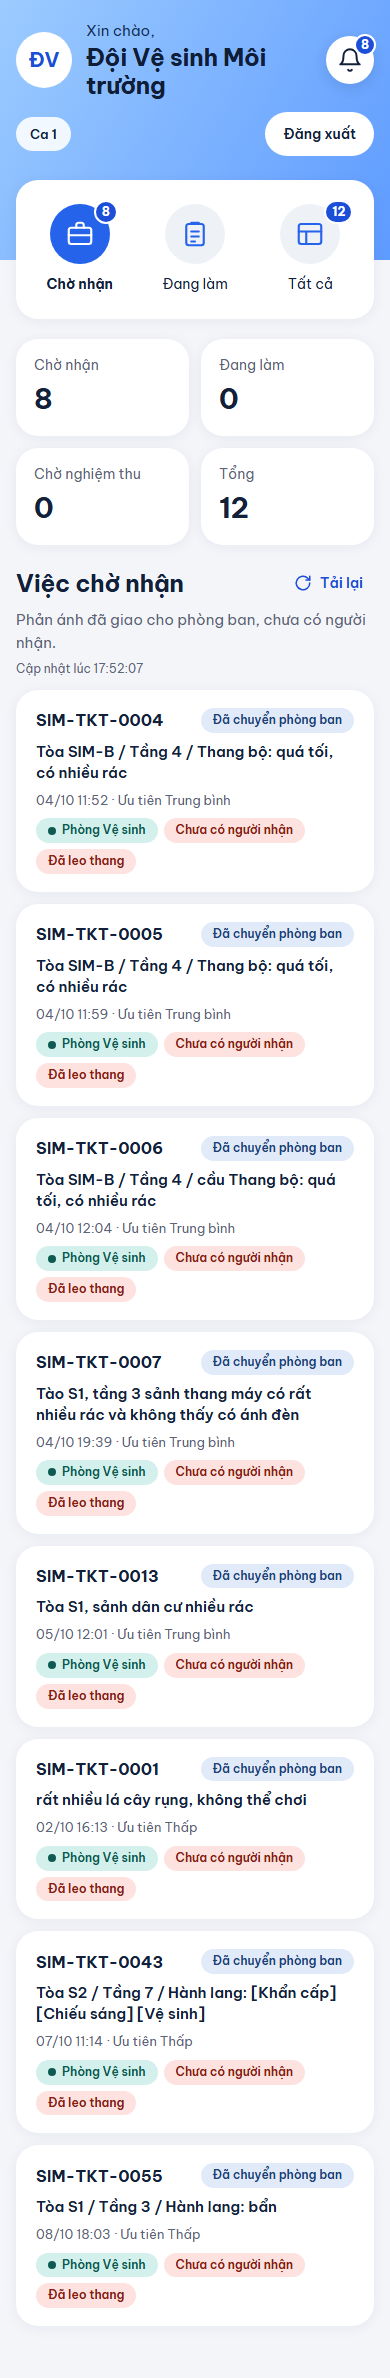
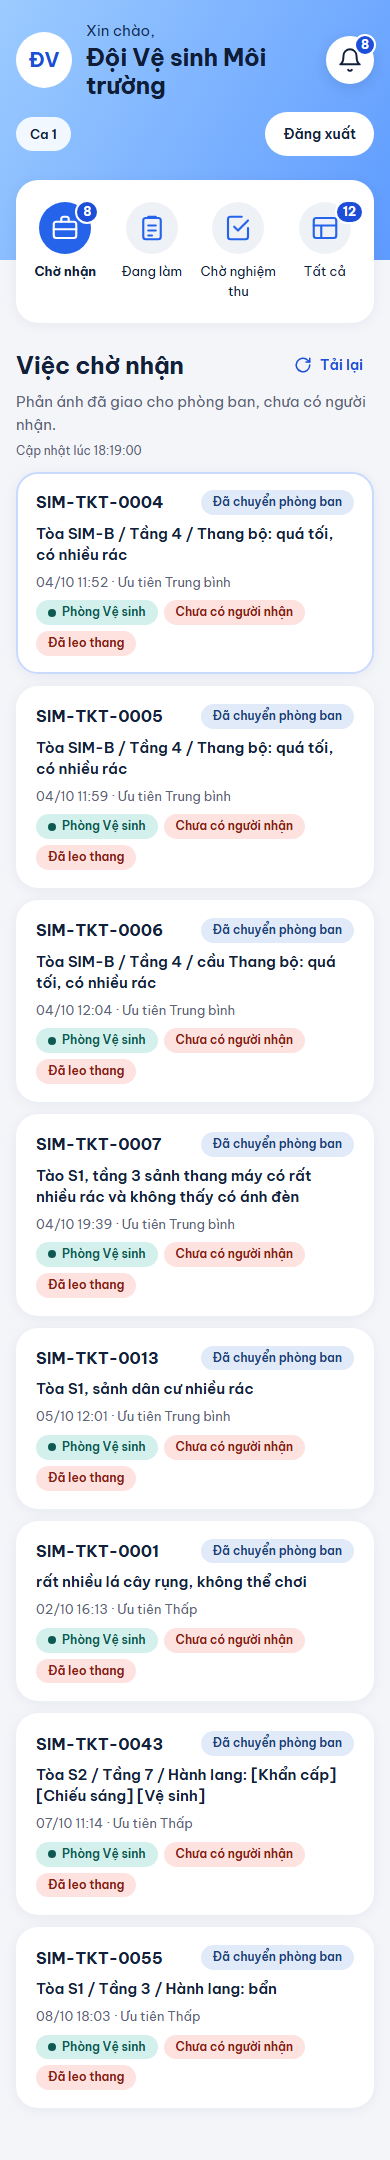
feat(mobile): department tiles add "Chờ nghiệm thu" and drop the stat cards
- Department list: four tiles (Chờ nhận, Đang làm, Chờ nghiệm thu, Tất cả), no stat cards (plan 11 Q32)
- queueScreen takes optional stats; check-square icon from portal; shell version v4

diff --git a/src/mobile/js/dept.js b/src/mobile/js/dept.js
@@ -1,22 +1,24 @@
 // Department screens (Phòng ban Vệ sinh / Kỹ thuật) — plan 11 SPEC-P05 §2. Same endpoints and rules as
 // renderDepartment / workSections in src/web/app.js; photos first because the field team works from the phone (Q28).
-import { api, apiForm } from './api.js?v=3';
-import { MAX_PHOTOS, photoFormData, photoPicker } from './photo.js?v=3';
-import { confirmSheet, el, field, fill, icon, notice, pill, writeButton } from './ui.js?v=3';
+import { api, apiForm } from './api.js?v=4';
+import { MAX_PHOTOS, photoFormData, photoPicker } from './photo.js?v=4';
+import { confirmSheet, el, field, fill, icon, notice, pill, writeButton } from './ui.js?v=4';
 import {
   REASON_LABEL, caseHead, caseScreen, checklistLabel, codeOf, eventsHistory, executionPhotoIds, imagesOf, materialName,
   materialUnit, photoBox, photoStrip, queueScreen, reportBox, select, webButton, writer,
-} from './staff.js?v=3';
+} from './staff.js?v=4';
 
 const MAX_EXECUTION_PHOTOS = 10; // src/maintenance/engine.py
 const TILES = [
   ['todo', 'Chờ nhận', 'briefcase', (t) => t.status === 'ROUTED'],
   ['doing', 'Đang làm', 'clipboard', (t) => t.status === 'IN_PROGRESS' || t.status === 'ON_HOLD'],
+  ['review', 'Chờ nghiệm thu', 'checkSquare', (t) => t.status === 'READY_FOR_REVIEW'],
   ['all', 'Tất cả', 'table', () => true],
 ];
 const HEADS = {
   todo: ['Việc chờ nhận', 'Phản ánh đã giao cho phòng ban, chưa có người nhận.'],
   doing: ['Việc đang làm', 'Chụp ảnh sau xử lý, tick checklist, ghi vật tư rồi báo hoàn thành.'],
+  review: ['Chờ nghiệm thu', 'Đã báo hoàn thành, đang chờ Ban quản lý nghiệm thu.'],
   all: ['Tất cả việc của phòng ban', 'Mọi phản ánh đã giao cho phòng ban của bạn.'],
 };
 let tab = 'todo';
@@ -26,8 +28,6 @@ const tabState = { get: () => tab, set: (key) => { tab = key; } };
 
 export const list = (ctx) => queueScreen(ctx, {
   tiles: TILES, tab: tabState, heads: HEADS, base: '#/d', empty: 'Không có việc nào ở mục này.',
-  stats: (rows) => [['Chờ nhận', rows.filter(TILES[0][3]).length], ['Đang làm', rows.filter(TILES[1][3]).length],
-    ['Chờ nghiệm thu', rows.filter((t) => t.status === 'READY_FOR_REVIEW').length], ['Tổng', rows.length]],
 });
 
 // ---------------------------------------------------------------- readiness (src/web/app.js failingLabel / computeReadinessPrecheck)

diff --git a/src/mobile/js/staff.js b/src/mobile/js/staff.js
@@ -1,7 +1,7 @@
 // Shared pieces of the staff screens (BQL, Phòng ban, BPTN, Kho) — plan 11 SPEC-P05 Q31.
 // Labels copied from src/web/app.js so web and app name things the same way.
-import { api, apiImage } from './api.js?v=3';
-import { el, emptyState, fill, formatTime, history, notice, pageHead, pagedList, pill, refreshButton, toast } from './ui.js?v=3';
+import { api, apiImage } from './api.js?v=4';
+import { el, emptyState, fill, formatTime, history, notice, pageHead, pagedList, pill, refreshButton, toast } from './ui.js?v=4';
 
 export const REASON_LABEL = {
   MISSING_INFO: 'Thiếu thông tin', DUPLICATE: 'Nghi trùng', CATEGORY_UNCLEAR: 'Loại việc chưa rõ', OUT_OF_SCOPE: 'Ngoài phạm vi',
@@ -163,7 +163,8 @@ export function summaryCard(cat, base) {
 
 /**
  * List screen shared by Phòng ban / BPTN / Kho: stat cards, filter tiles (#staff-tabs), page head, paged cards (#staff-list).
- * opts: { tiles: [[key, label, icon, test]], tab: { get, set }, heads: { key: [title, sub] }, base, stats(rows) → [[label, n]], empty }
+ * opts: { tiles: [[key, label, icon, test]], tab: { get, set }, heads: { key: [title, sub] }, base, stats?(rows) → [[label, n]], empty }
+ * Without `stats` no stat cards are drawn (Phòng ban, Q32).
  */
 export async function queueScreen(ctx, opts) {
   const statsBox = el('div', { class: 'stats' });
@@ -179,7 +180,8 @@ export async function queueScreen(ctx, opts) {
   const draw = (keep) => {
     chrome();
     ctx.counts(Object.fromEntries([...opts.tiles.map(([key, , , t]) => [key, rows.filter(t).length]), ['bell', rows.filter(opts.tiles[0][3]).length]]));
-    fill(statsBox, opts.stats(rows).map(([label, value]) => el('div', { class: 'card stat' }, el('span', {}, label), el('b', {}, String(value)))));
+    statsBox.hidden = !opts.stats;
+    fill(statsBox, (opts.stats ? opts.stats(rows) : []).map(([label, value]) => el('div', { class: 'card stat' }, el('span', {}, label), el('b', {}, String(value)))));
     const [title, sub] = opts.heads[opts.tab.get()] || opts.heads[opts.tiles[0][0]];
     fill(head, pageHead(title, sub, { right: refreshButton(load, ctx) }));
     const previous = keep ? body.firstElementChild : null;

diff --git a/src/mobile/js/main.js b/src/mobile/js/main.js
@@ -1,12 +1,12 @@
 // Phone app boot: hash router, sign-in, periodic refresh, offline banner, service worker (plan 11, SPEC-P01).
 // Chrome = portal Header + NavTiles (portal/src/components/shell.tsx, SPEC-P04 §3).
-import { api, clearToken, getToken, onUnauthorized, setToken } from './api.js?v=3';
-import { clock, el, fill, icon, person, toast } from './ui.js?v=3';
-import * as resident from './resident.js?v=3';
-import * as bql from './bql.js?v=3';
-import * as dept from './dept.js?v=3';
-import * as bptn from './bptn.js?v=3';
-import * as kho from './kho.js?v=3';
+import { api, clearToken, getToken, onUnauthorized, setToken } from './api.js?v=4';
+import { clock, el, fill, icon, person, toast } from './ui.js?v=4';
+import * as resident from './resident.js?v=4';
+import * as bql from './bql.js?v=4';
+import * as dept from './dept.js?v=4';
+import * as bptn from './bptn.js?v=4';
+import * as kho from './kho.js?v=4';
 
 export const REFRESH_MS = 30000;
 const ME_KEY = 'mo-app-me';

diff --git a/src/mobile/sw.js b/src/mobile/sw.js
@@ -1,21 +1,21 @@
 // Service worker of the phone app (plan 11, SPEC-P01 §3): caches the app shell only.
 // API responses are NEVER cached (00-ARCHITECTURE I-3): data on the phone must always come from the shared DB.
-const SHELL_CACHE = 'mo-app-shell-v3';
+const SHELL_CACHE = 'mo-app-shell-v4';
 const SHELL = [
   './',
   'index.html',
-  'app.css?v=3',
+  'app.css?v=4',
   'manifest.json',
-  'js/main.js?v=3',
-  'js/api.js?v=3',
-  'js/ui.js?v=3',
-  'js/photo.js?v=3',
-  'js/resident.js?v=3',
-  'js/bql.js?v=3',
-  'js/staff.js?v=3',
-  'js/dept.js?v=3',
-  'js/bptn.js?v=3',
-  'js/kho.js?v=3',
+  'js/main.js?v=4',
+  'js/api.js?v=4',
+  'js/ui.js?v=4',
+  'js/photo.js?v=4',
+  'js/resident.js?v=4',
+  'js/bql.js?v=4',
+  'js/staff.js?v=4',
+  'js/dept.js?v=4',
+  'js/bptn.js?v=4',
+  'js/kho.js?v=4',
   'icons/icon-192.png',
   'icons/icon-512.png',
   'icons/icon-maskable-512.png',

diff --git a/src/mobile/index.html b/src/mobile/index.html
@@ -15,7 +15,7 @@
   <link rel="preconnect" href="https://fonts.googleapis.com">
   <link rel="preconnect" href="https://fonts.gstatic.com" crossorigin>
   <link href="https://fonts.googleapis.com/css2?family=Be+Vietnam+Pro:wght@400;500;600;700&display=swap" rel="stylesheet">
-  <link rel="stylesheet" href="app.css?v=3">
+  <link rel="stylesheet" href="app.css?v=4">
 </head>
 <body>
   <div id="offline" class="offline" role="status" hidden>Mất kết nối — dữ liệu có thể chưa mới, chưa gửi được thao tác</div>
@@ -24,6 +24,6 @@
   <main id="screen" class="screen" aria-live="polite"></main>
   <div id="toast" class="toast" role="alert" hidden></div>
   <div id="sheet" class="sheet-backdrop" hidden></div>
-  <script type="module" src="js/main.js?v=3"></script>
+  <script type="module" src="js/main.js?v=4"></script>
 </body>
 </html>

diff --git a/src/mobile/js/bql.js b/src/mobile/js/bql.js
@@ -1,13 +1,13 @@
 // BQL screens on the phone (plan 11, SPEC-P03 rules, SPEC-P04 §5 layout from portal/src/app/management/management-app.tsx).
 // Buttons follow the BqlTicketRow; the server stays the referee (403/409 go through the error table).
-import { api, apiImage } from './api.js?v=3';
+import { api, apiImage } from './api.js?v=4';
 import {
   TERMINAL, confirmSheet, el, emptyState, field, fill, formatTime, history, icon, infoGrid, notice, pageHead, pagedList,
   refreshButton, toast, writeButton,
-} from './ui.js?v=3';
+} from './ui.js?v=4';
 import {
   PRIORITY_LABEL, REASON_LABEL, deptName, deptPill as deptPillOf, flags, imagesOf, isEmergency, isSeedTicket, loadCatalog, statusPill,
-} from './staff.js?v=3';
+} from './staff.js?v=4';
 
 export { isEmergency, isSeedTicket };
 const deptPill = (cat, r) => deptPillOf(cat, r.department_id);

diff --git a/src/mobile/js/bptn.js b/src/mobile/js/bptn.js
@@ -1,10 +1,10 @@
 // BPTN screens (Bộ phận tiếp nhận) — plan 11 SPEC-P05 §3. Same queue filter and bodies as renderBptn / bptnForm in src/web/app.js.
-import { api } from './api.js?v=3';
-import { confirmSheet, el, field, fill, notice, writeButton } from './ui.js?v=3';
+import { api } from './api.js?v=4';
+import { confirmSheet, el, field, fill, notice, writeButton } from './ui.js?v=4';
 import {
   CATEGORY_LABEL, caseHead, caseScreen, codeOf, compact, eventsHistory, imagesOf, photoBox, queueScreen, reportBox, select,
   webButton, writer,
-} from './staff.js?v=3';
+} from './staff.js?v=4';
 
 const QUEUE = new Set(['SAFETY_REVIEW_REQUIRED', 'MISSING_INFO', 'DUPLICATE', 'CATEGORY_UNCLEAR', 'OUT_OF_SCOPE', 'PENDING_REVIEW', 'ASSET_UNCLEAR', 'WRONG_DEPT']);
 const needsBptn = (t) => t.status === 'NEED_INFO' || QUEUE.has(codeOf(t));

diff --git a/src/mobile/js/ui.js b/src/mobile/js/ui.js
@@ -42,6 +42,7 @@ const ICONS = {
   table: ['<rect x="3" y="4" width="18" height="16" rx="2"/><path d="M3 10h18M9 10v10"/>', 30, 1.7],
   briefcase: ['<rect x="3" y="7" width="18" height="13" rx="2"/><path d="M9 7V5a2 2 0 0 1 2-2h2a2 2 0 0 1 2 2v2M3 13h18"/>', 30, 1.7],
   shield: ['<path d="M12 3 4 6v6c0 5 3.5 8 8 9 4.5-1 8-4 8-9V6Z"/><path d="m9 12 2 2 4-4"/>', 30, 1.7],
+  checkSquare: ['<path d="m9 11 3 3 8-8"/><path d="M20 12v7a2 2 0 0 1-2 2H6a2 2 0 0 1-2-2V5a2 2 0 0 1 2-2h9"/>', 30, 1.7],
   layers: ['<path d="m12 3 9 5-9 5-9-5Z"/><path d="m3 13 9 5 9-5"/>', 22, 1.8],
   building: ['<path d="M4 21V5a2 2 0 0 1 2-2h12a2 2 0 0 1 2 2v16"/><path d="M2 21h20M10 21v-5h4v5M9 8h1M14 8h1M9 12h1M14 12h1"/>', 22, 1.8],
   lift: ['<rect x="5" y="3" width="14" height="18" rx="2"/><path d="m9 9 3-3 3 3M9 15l3 3 3-3"/>', 22, 1.8],

diff --git a/src/mobile/js/kho.js b/src/mobile/js/kho.js
@@ -1,10 +1,10 @@
 // Warehouse screens (Kho vật tư) — plan 11 SPEC-P05 §4. Same endpoints as renderWarehouse in src/web/app.js.
-import { api } from './api.js?v=3';
-import { el, emptyState, field, fill, pageHead, pagedList, pill, refreshButton, toast, writeButton } from './ui.js?v=3';
+import { api } from './api.js?v=4';
+import { el, emptyState, field, fill, pageHead, pagedList, pill, refreshButton, toast, writeButton } from './ui.js?v=4';
 import {
   caseHead, caseScreen, codeOf, eventsHistory, isSeedTicket, loadCatalog, materialName, materialUnit, reportBox, select,
   summaryCard, webButton,
-} from './staff.js?v=3';
+} from './staff.js?v=4';
 
 const TILES = [['wait', 'Chờ vật tư', 'box'], ['stock', 'Tồn kho', 'grid']];
 let tab = 'wait';

diff --git a/src/mobile/js/resident.js b/src/mobile/js/resident.js
@@ -1,11 +1,11 @@
 // Resident screens (plan 11, SPEC-P02 rules, SPEC-P04 §4 layout from portal/src/app/resident/resident-app.tsx).
 // Only /resident/* endpoints; data = ResidentTicketView.
-import { api, apiForm, apiImage } from './api.js?v=3';
+import { api, apiForm, apiImage } from './api.js?v=4';
 import {
   TERMINAL, el, emptyState, fill, formatTime, history, icon, infoGrid, notice, pageHead, pagedList, pill,
   refreshButton, stepHead, toast, writeButton,
-} from './ui.js?v=3';
-import { MAX_PHOTOS, photoFormData, photoPicker } from './photo.js?v=3';
+} from './ui.js?v=4';
+import { MAX_PHOTOS, photoFormData, photoPicker } from './photo.js?v=4';
 
 const MIN_DESCRIPTION = 10;
 const RECOVER_WINDOW_MS = 3 * 60 * 1000;

diff --git a/src/mobile/app.css b/src/mobile/app.css
@@ -148,6 +148,9 @@ a.tile { text-decoration: none; }
   .tile { font-size: 14px; }
   .tile .ic { width: 60px; height: 60px; }
   .cnt { left: calc(50% + 14px); }
+  .tiles[style*="--cols:4"] .tile { font-size: 13px; gap: 8px; padding: 8px 2px; }
+  .tiles[style*="--cols:4"] .tile .ic { width: 52px; height: 52px; }
+  .tiles[style*="--cols:4"] .cnt { left: calc(50% + 10px); }
 }
 
 /* Content column */

diff --git a/src/mobile/js/photo.js b/src/mobile/js/photo.js
@@ -1,6 +1,6 @@
 // Photo compression and picker (plan 11, SPEC-P01 §8). The API takes JPG/PNG/WEBP up to 5 MB, at most 5 per ticket.
-import { ApiError } from './api.js?v=3';
-import { el, icon, toast } from './ui.js?v=3';
+import { ApiError } from './api.js?v=4';
+import { el, icon, toast } from './ui.js?v=4';
 
 export const PHOTO_MAX_EDGE = 1600;
 export const PHOTO_QUALITY = 0.82;
